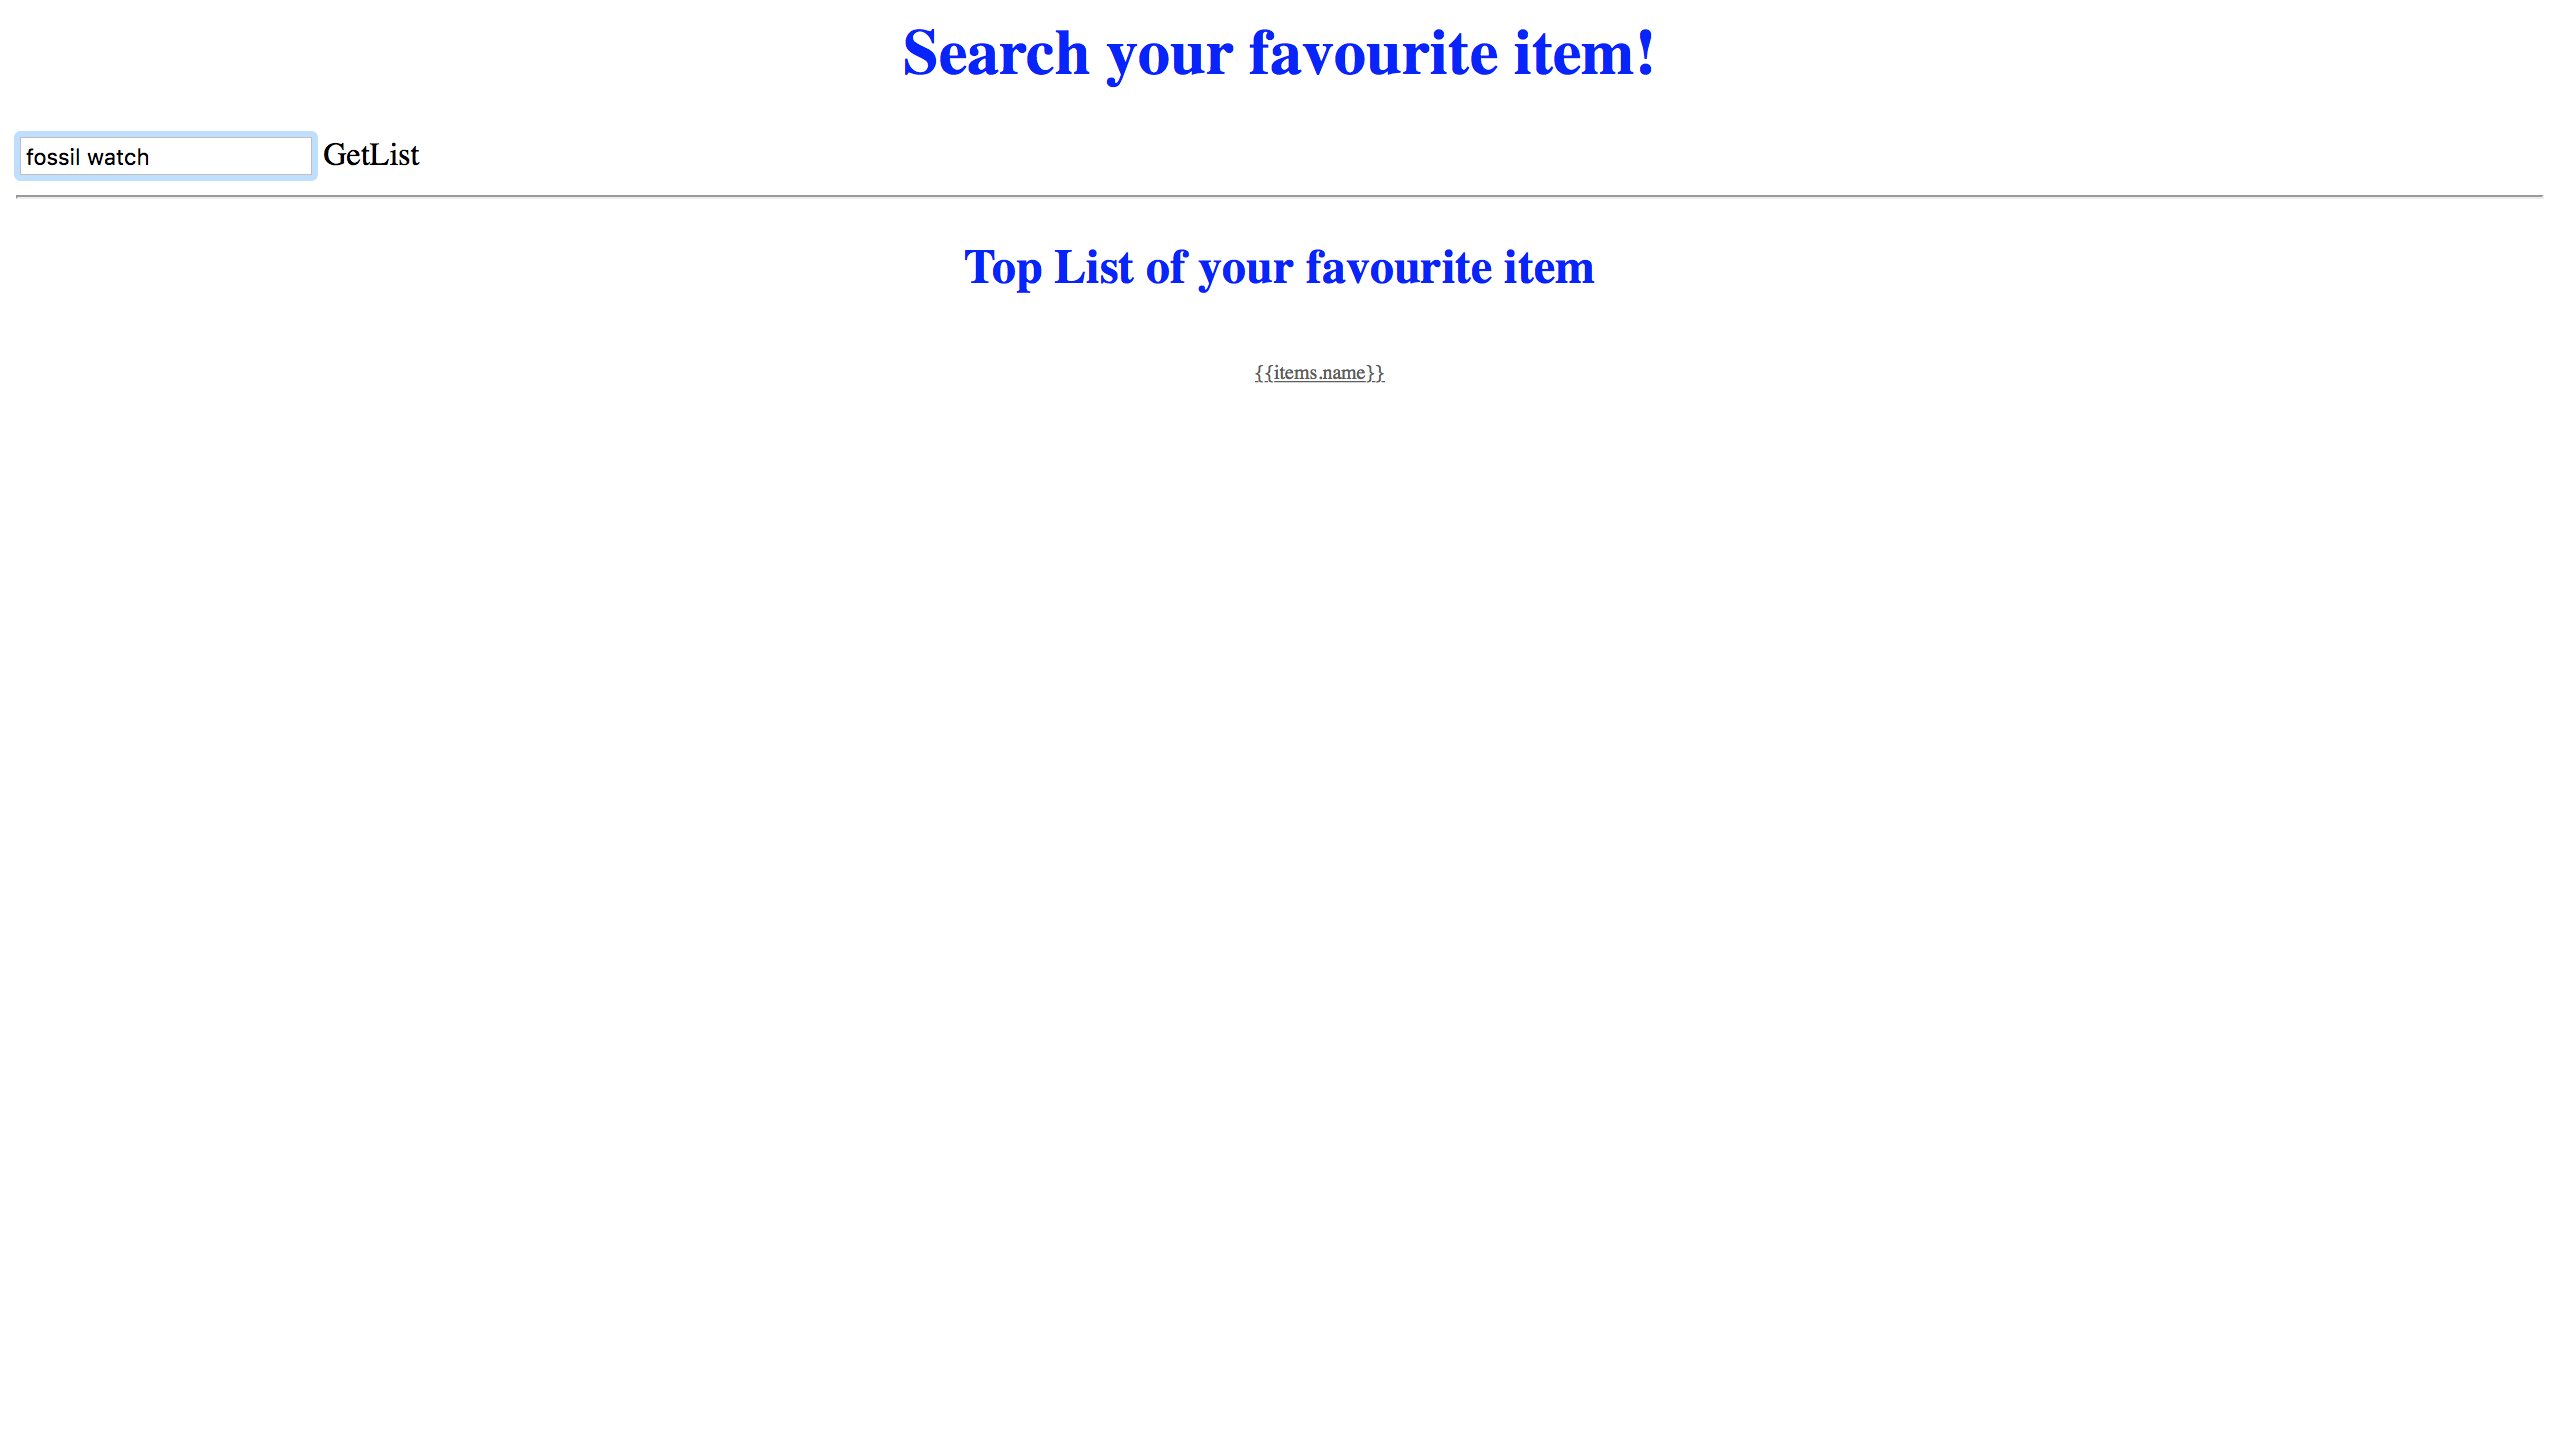
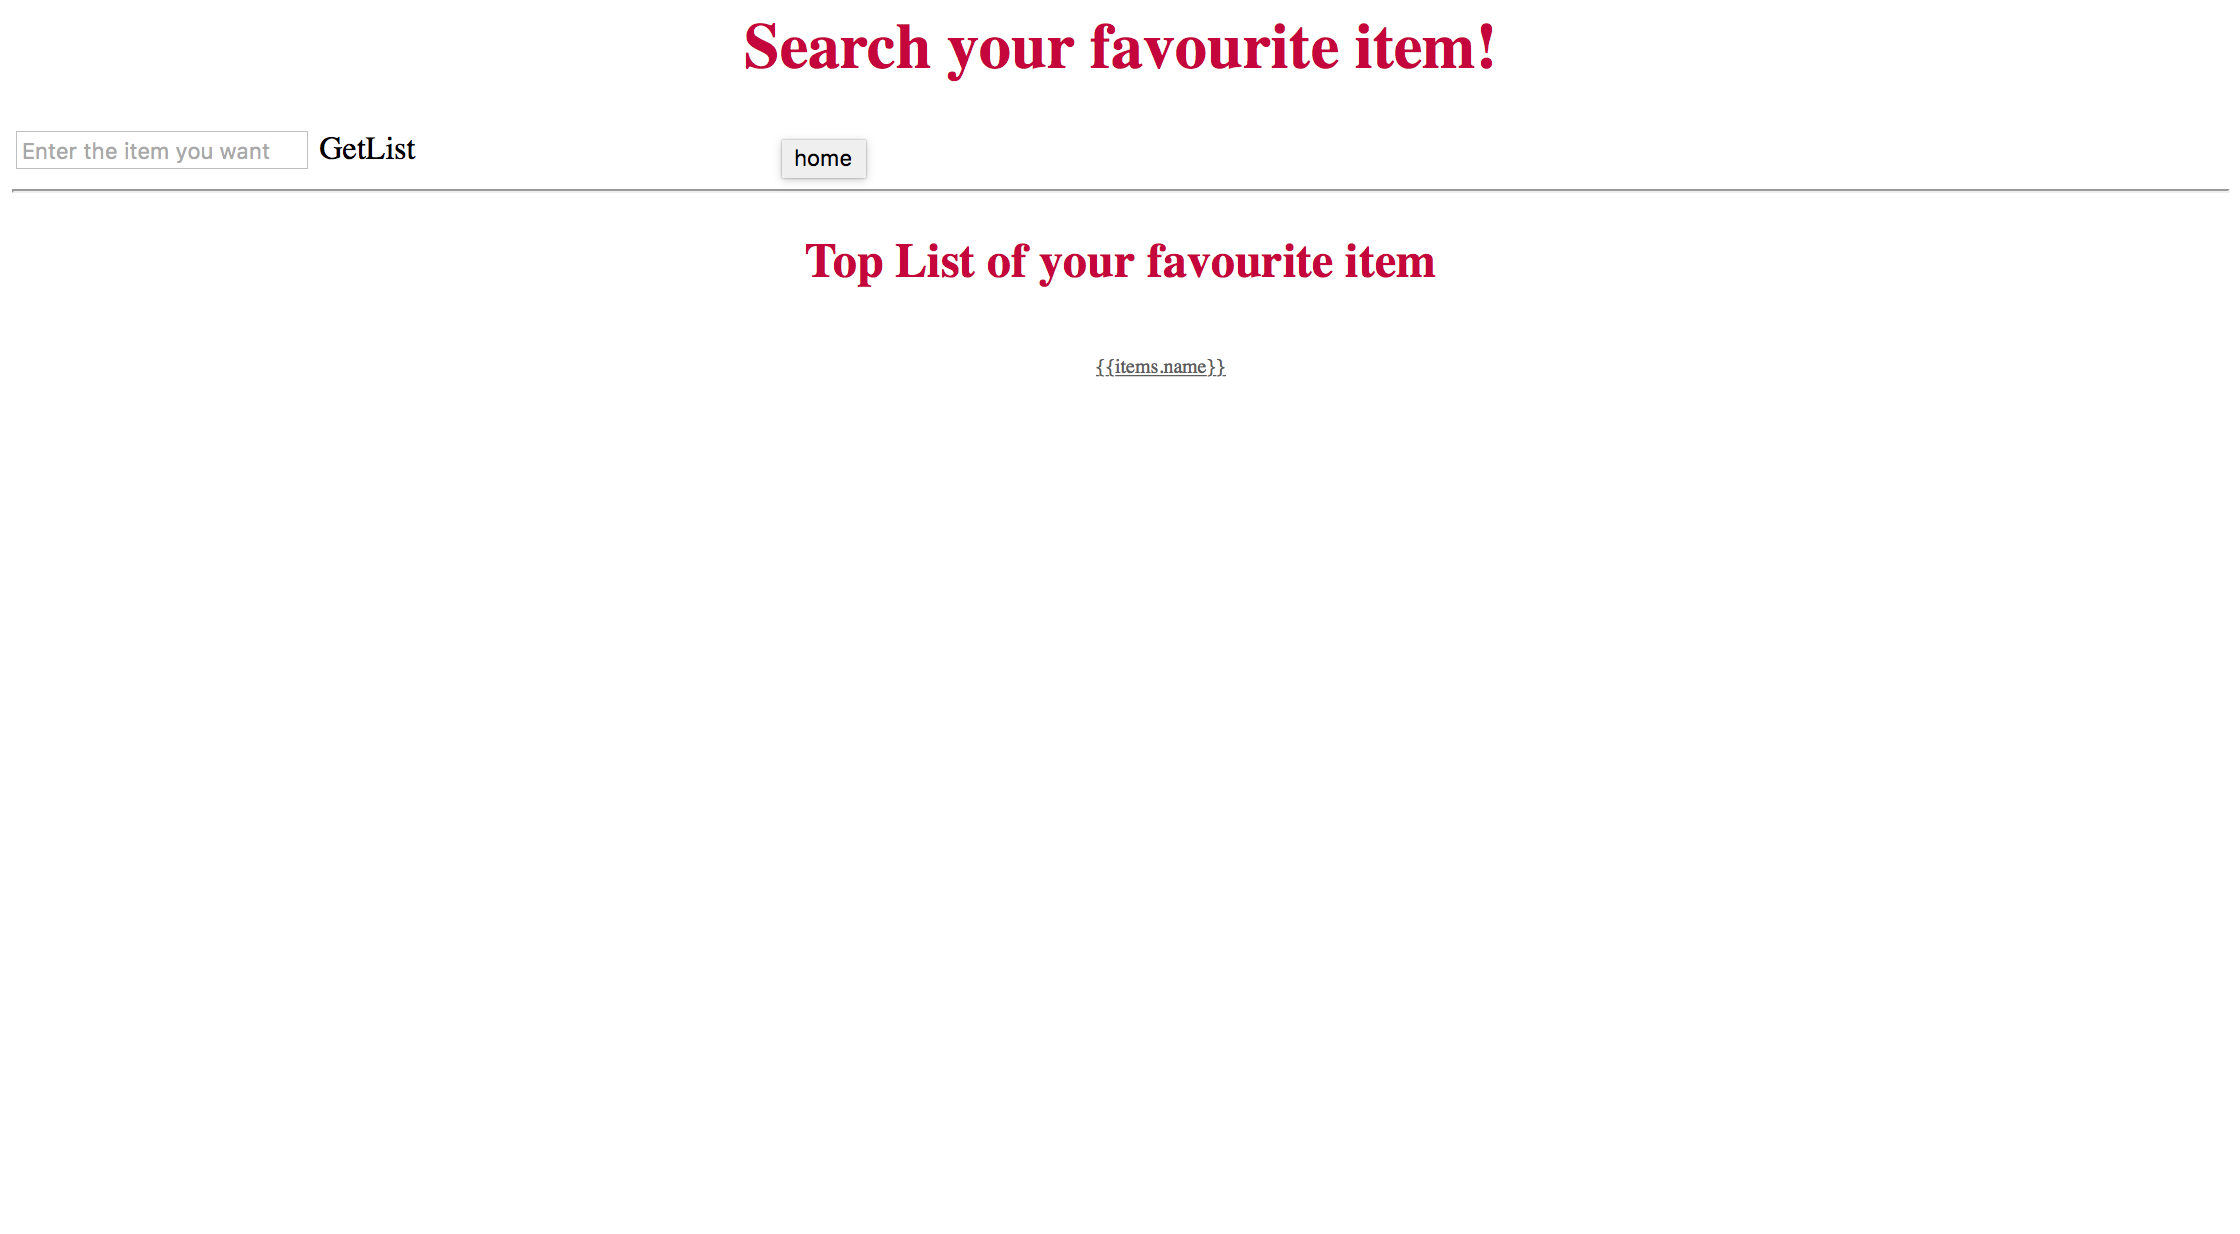
Modified

Changed region(s): [[0.0, 0.0924, 0.9688, 0.3079], [0.3125, 0.0, 0.6562, 0.0616]]

diff --git a/Lab Assignment 7/Source/www/templates/home.html b/Lab Assignment 7/Source/www/templates/home.html
@@ -1,12 +1,12 @@
 
-<ion-view title="Home" id="page5" xmlns:list-style-position="http://www.w3.org/1999/xhtml"
+<ion-view title="home" id="page5" xmlns:list-style-position="http://www.w3.org/1999/xhtml"
           xmlns:list-style-position="http://www.w3.org/1999/xhtml"
           xmlns:list-style-position="http://www.w3.org/1999/xhtml">
    <ion-content padding="true" class="has-header"  ng-controller="View1Ctrl">
 
 
        <div id="div_SearchContainer">
-         <h1 align="absolute" style="text-align: center; color: Blue">Search your favourite item!</h1>
+         <h1 align="absolute" style="text-align: center; color: #C70039">Search your favourite item!</h1>
          <label class="item item-input" >
            <span class="input-label"></span>
            <input type="text" id="txt_itemName" placeholder="Enter the item you want">
@@ -17,9 +17,9 @@
        </div>
      <hr>
        <div id="div_VenueList">
-         <h2 style="text-align: center; color: Blue"> Top List of your favourite item </h2>
+         <h2 style="text-align: center; color: #C70039"> Top List of your favourite item </h2>
          <ul>
-           <li ng-repeat="items in itemList" style="font-size: x-large; color: Blue; text-align: center; list-style: none" list-style-position:inside;>
+           <li ng-repeat="items in itemList" style="font-size: x-large; color: #5e5e5e; text-align: center; list-style: none" list-style-position:inside;>
              <a  href="" ng-click="getReviews(items)" style="font-size: x-small; color: #5e5e5e; text-align: center;">{{items.name}}</a>
            </li>
          </ul>
@@ -32,7 +32,7 @@
 
          <p ng-model="ReviewWithSentiment">
 
-         <TABLE BORDER=2 CELLPADDING=4> <TR> <TH style="color:Blue; background:#C70039" COLSPAN=2>Sentiment Analysis From Using UClassify API </TH> </TR>
+         <TABLE BORDER=2 CELLPADDING=4> <TR> <TH style="color:#5e5e5e; background:#C70039" COLSPAN=2>Sentiment Analysis From Using UClassify API </TH> </TR>
            <TR> <TD>Name of the product</TD> <TD>{{ReviewWithSentiment.itemSelected}}</TD> </TR>
            <TR> <TD>Product Id</TD> <TD>{{ReviewWithSentiment.productId}}</TD> </TR>
            <TR> <TD>Price</TD> <TD>{{ReviewWithSentiment.PriceOnSale}}</TD> </TR>
